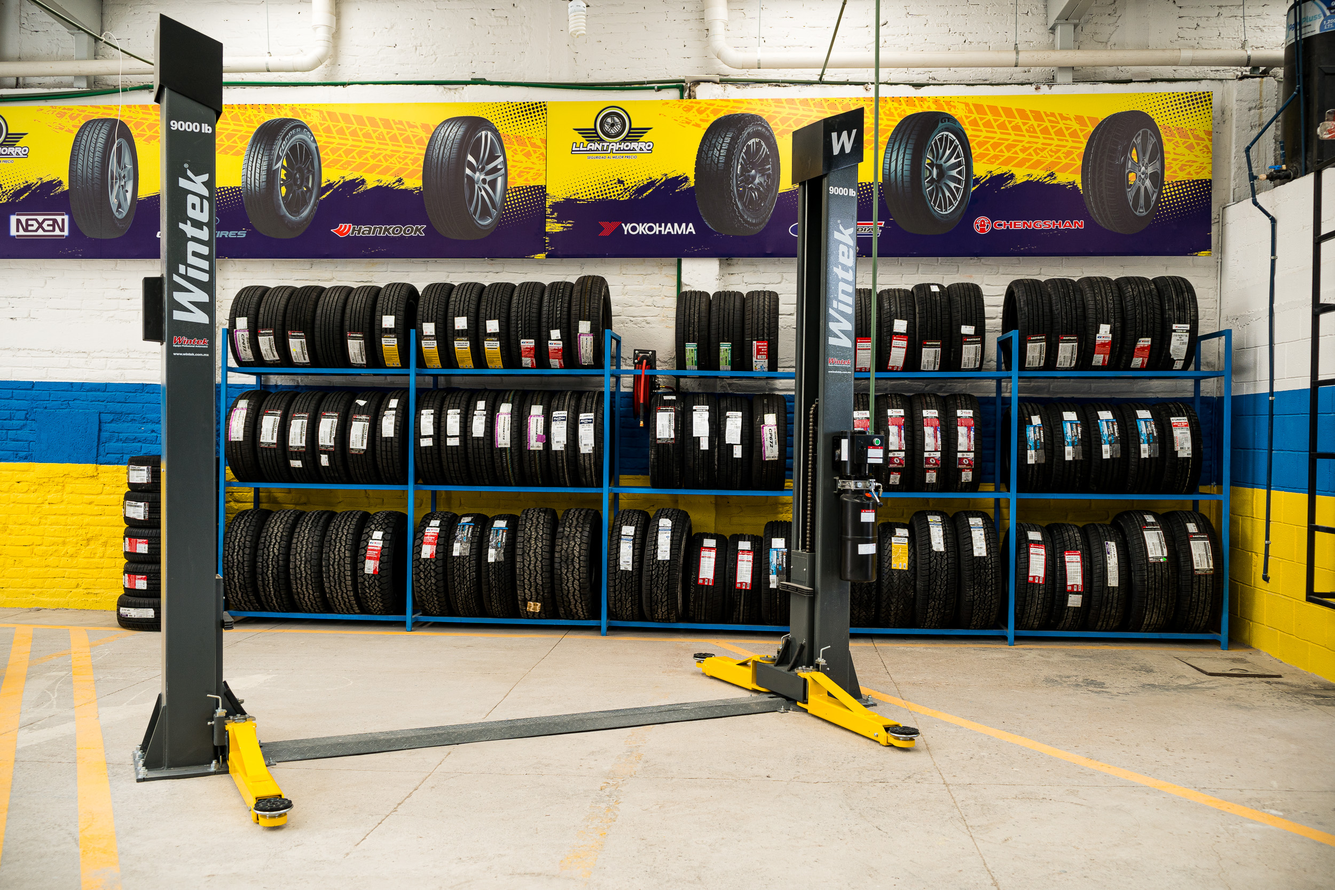
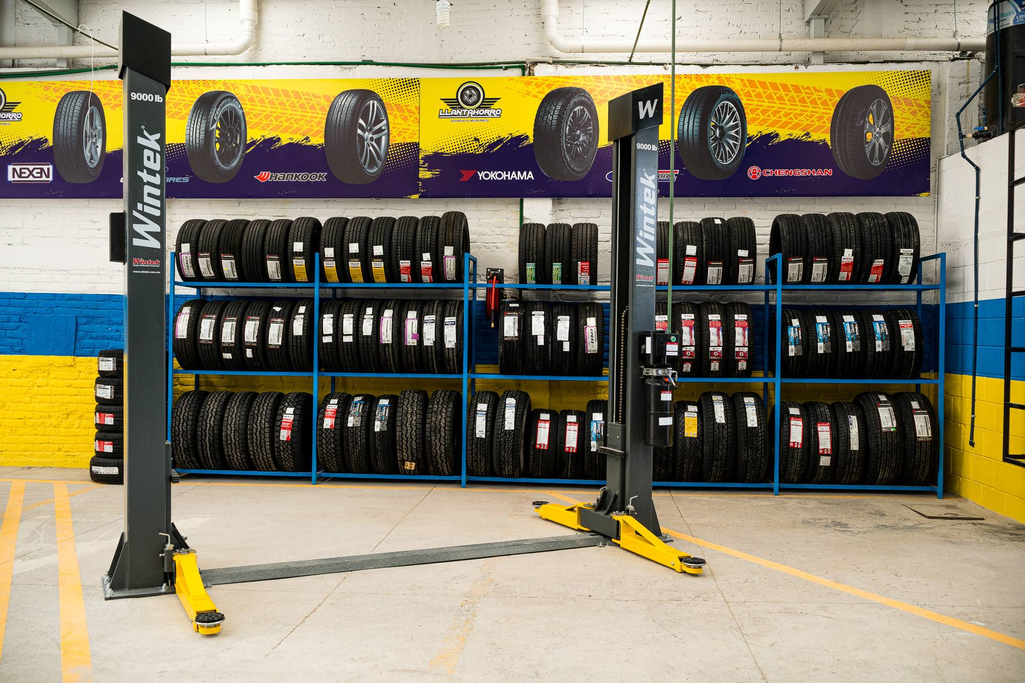
Optimizar imágenes, agregar SEO local y despliegue a HostGator
- Imágenes en WebP y redimensionadas (~2.7 MB → ~390 KB por visita)
- Título, descripción, Open Graph y datos de negocio (schema.org TireShop)
- robots.txt y sitemap.xml para llantaahorroqro.com.mx
- Corregir enlaces de llamada de 4 sucursales de Tlaxcala
- Workflow de GitHub Actions que sube el sitio por FTPS a public_html

diff --git a/index.html b/index.html
@@ -4,9 +4,89 @@
 <head>
   <meta charset="UTF-8">
   <meta name="viewport" content="width=device-width, initial-scale=1.0">
-  <title>Llantahorro Queretaro</title>
+  <title>Llantahorro Querétaro | Llantas multimarca, alineación y balanceo</title>
   <meta name="description"
-    content="Venta de llantas multimarca. Balanceo, alineación, inflado con nitrógeno y rotación de llantas. Calidad y experiencia para tu vehículo.">
+    content="Llantera multimarca en Querétaro. Venta de llantas, balanceo, alineación, inflado con nitrógeno y rotación. Av. 5 de Febrero 168, Col. Las Campanas. Llámanos al 442 244 1125.">
+  <meta name="theme-color" content="#05061C">
+  <link rel="canonical" href="https://llantaahorroqro.com.mx/">
+  <link rel="icon" type="image/png" href="images/logo-footer.png">
+
+  <!-- Vista previa al compartir (WhatsApp, Facebook) -->
+  <meta property="og:type" content="website">
+  <meta property="og:locale" content="es_MX">
+  <meta property="og:site_name" content="Llantahorro Querétaro">
+  <meta property="og:title" content="Llantahorro Querétaro | Seguridad al mejor precio">
+  <meta property="og:description" content="Llantas multimarca, alineación, balanceo y nitrógeno en Querétaro. Av. 5 de Febrero 168, Col. Las Campanas.">
+  <meta property="og:url" content="https://llantaahorroqro.com.mx/">
+  <meta property="og:image" content="https://llantaahorroqro.com.mx/images/og-llantahorro.jpg">
+  <meta property="og:image:width" content="1200">
+  <meta property="og:image:height" content="630">
+  <meta property="og:image:alt" content="Logotipo de Llantahorro sobre la sucursal de Querétaro">
+  <meta name="twitter:card" content="summary_large_image">
+
+  <!-- Datos del negocio para Google (búsquedas locales y Maps) -->
+  <script type="application/ld+json">
+  {
+    "@context": "https://schema.org",
+    "@type": "TireShop",
+    "name": "Llantahorro Querétaro",
+    "slogan": "Seguridad al mejor precio",
+    "url": "https://llantaahorroqro.com.mx/",
+    "image": "https://llantaahorroqro.com.mx/images/og-llantahorro.jpg",
+    "logo": "https://llantaahorroqro.com.mx/images/logo-footer.png",
+    "telephone": "+52 442 244 1125",
+    "priceRange": "$$",
+    "address": {
+      "@type": "PostalAddress",
+      "streetAddress": "Av. 5 de Febrero 168, Col. Las Campanas",
+      "addressLocality": "Querétaro",
+      "addressRegion": "Qro.",
+      "addressCountry": "MX"
+    },
+    "geo": {
+      "@type": "GeoCoordinates",
+      "latitude": 20.589165,
+      "longitude": -100.415514
+    },
+    "hasMap": "https://maps.app.goo.gl/YQYEY5u7Kh3EqXh98",
+    "openingHoursSpecification": [
+      {
+        "@type": "OpeningHoursSpecification",
+        "dayOfWeek": ["Monday", "Tuesday", "Wednesday", "Thursday", "Friday"],
+        "opens": "09:00",
+        "closes": "19:00"
+      },
+      {
+        "@type": "OpeningHoursSpecification",
+        "dayOfWeek": "Saturday",
+        "opens": "09:00",
+        "closes": "16:00"
+      }
+    ],
+    "contactPoint": [
+      {
+        "@type": "ContactPoint",
+        "telephone": "+52 442 244 1125",
+        "contactType": "customer service",
+        "description": "Solo llamadas",
+        "areaServed": "MX",
+        "availableLanguage": "Spanish"
+      },
+      {
+        "@type": "ContactPoint",
+        "telephone": "+52 442 263 1344",
+        "contactType": "customer service",
+        "description": "Solo WhatsApp",
+        "areaServed": "MX",
+        "availableLanguage": "Spanish"
+      }
+    ],
+    "sameAs": [
+      "https://www.facebook.com/share/1Gv1kbUiUR/",
+      "https://www.instagram.com/llantahorro.queretaro"
+    ]
+  }
+  </script>
   <link href="https://cdn.jsdelivr.net/npm/bootstrap@5.3.3/dist/css/bootstrap.min.css" rel="stylesheet">
   <link rel="stylesheet" href="https://cdn.jsdelivr.net/npm/bootstrap-icons@1.11.3/font/bootstrap-icons.css">
   <link rel="preconnect" href="https://fonts.googleapis.com">
@@ -24,7 +104,10 @@
   <nav class="navbar navbar-expand-lg fixed-top" id="mainNavbar">
     <div class="container">
       <a class="navbar-brand d-flex align-items-center gap-2" href="#inicio">
-        <img src="images/logo-footer.png" alt="Llantahorro — Seguridad al mejor precio" id="navLogo" width="1344" height="800" onerror="this.style.display='none'">
+        <picture>
+          <source srcset="images/logo-footer.webp" type="image/webp">
+          <img src="images/logo-footer.png" alt="Llantahorro — Seguridad al mejor precio" id="navLogo" width="480" height="286" onerror="this.style.display='none'">
+        </picture>
       </a>
       <button class="navbar-toggler" type="button" data-bs-toggle="collapse" data-bs-target="#navMenu"
         aria-controls="navMenu" aria-expanded="false" aria-label="Abrir menú">
@@ -115,7 +198,10 @@
               Calidad garantizada
             </div>
 
-            <img src="images/hero-imagen.jpeg" alt="Promoción Llantahorro: tu auto pide seguridad, empieza por tus llantas" class="hero-tire" width="1224" height="1440" fetchpriority="high">
+            <picture>
+              <source srcset="images/hero-imagen.webp" type="image/webp">
+              <img src="images/hero-imagen.jpeg" alt="Promoción Llantahorro: tu auto pide seguridad, empieza por tus llantas" class="hero-tire" width="800" height="941" fetchpriority="high">
+            </picture>
 
             <div class="hero-floating-card">
               <div class="floating-icon">
@@ -473,7 +559,7 @@
             <i class="bi bi-signpost-split-fill"></i>
             Carr. Chiautempan – Apizaco Km 1.5
           </p>
-          <a class="sucursal-phone" href="tel:+524464582645">
+          <a class="sucursal-phone" href="tel:+522464582645">
             <i class="bi bi-telephone-fill"></i> (246) 458 2645
           </a>
         </div>
@@ -488,7 +574,7 @@
             <i class="bi bi-signpost-split-fill"></i>
             Carretera Federal Puebla-Tlaxcala, KM 18.5 Barrio de Guardia
           </p>
-          <a class="sucursal-phone" href="tel:+524464977498">
+          <a class="sucursal-phone" href="tel:+522464977498">
             <i class="bi bi-telephone-fill"></i> (246) 497 7498
           </a>
         </div>
@@ -503,7 +589,7 @@
             <i class="bi bi-signpost-split-fill"></i>
             Avenida Ocotlán #19, Col. San Gabriel Cuauhtla
           </p>
-          <a class="sucursal-phone" href="tel:+524724722111">
+          <a class="sucursal-phone" href="tel:+522474722111">
             <i class="bi bi-telephone-fill"></i> (247) 472 2111
           </a>
         </div>
@@ -518,7 +604,7 @@
             <i class="bi bi-signpost-split-fill"></i>
             Blvd. Jalisco 168, Col. La Santísima
           </p>
-          <a class="sucursal-phone" href="tel:+524811122870">
+          <a class="sucursal-phone" href="tel:+522481122870">
             <i class="bi bi-telephone-fill"></i> (248) 112 2870
           </a>
         </div>
@@ -849,7 +935,10 @@
       <div class="row gy-4 align-items-center">
         <div class="col-md-4">
           <div class="d-flex align-items-center gap-2">
-            <img src="images/logo-footer.png" alt="Logotipo" class="footer-logo" onerror="this.style.display='none'">
+            <picture>
+              <source srcset="images/logo-footer.webp" type="image/webp">
+              <img src="images/logo-footer.png" alt="Logotipo de Llantahorro" class="footer-logo" width="480" height="286" loading="lazy" onerror="this.style.display='none'">
+            </picture>
             <span class="brand-word footer-brand">Llantahorro</span>
           </div>
           <p class="footer-slogan">Presión, equilibrio y agarre en cada kilómetro</p>

diff --git a/styles_moderno.css b/styles_moderno.css
@@ -308,6 +308,10 @@ img{max-width:100%}
     radial-gradient(60% 70% at 85% 40%,rgba(2,8,224,.55),transparent 70%),
     linear-gradient(90deg,var(--ink) 0%,rgba(5,6,28,.92) 40%,rgba(5,6,28,.6) 100%),
     url('images/fondo-hero.jpeg') center/cover no-repeat;
+  background:
+    radial-gradient(60% 70% at 85% 40%,rgba(2,8,224,.55),transparent 70%),
+    linear-gradient(90deg,var(--ink) 0%,rgba(5,6,28,.92) 40%,rgba(5,6,28,.6) 100%),
+    image-set(url('images/fondo-hero.webp') type('image/webp'),url('images/fondo-hero.jpeg') type('image/jpeg')) center/cover no-repeat;
 }
 
 /* Grano fino para acabado premium */
